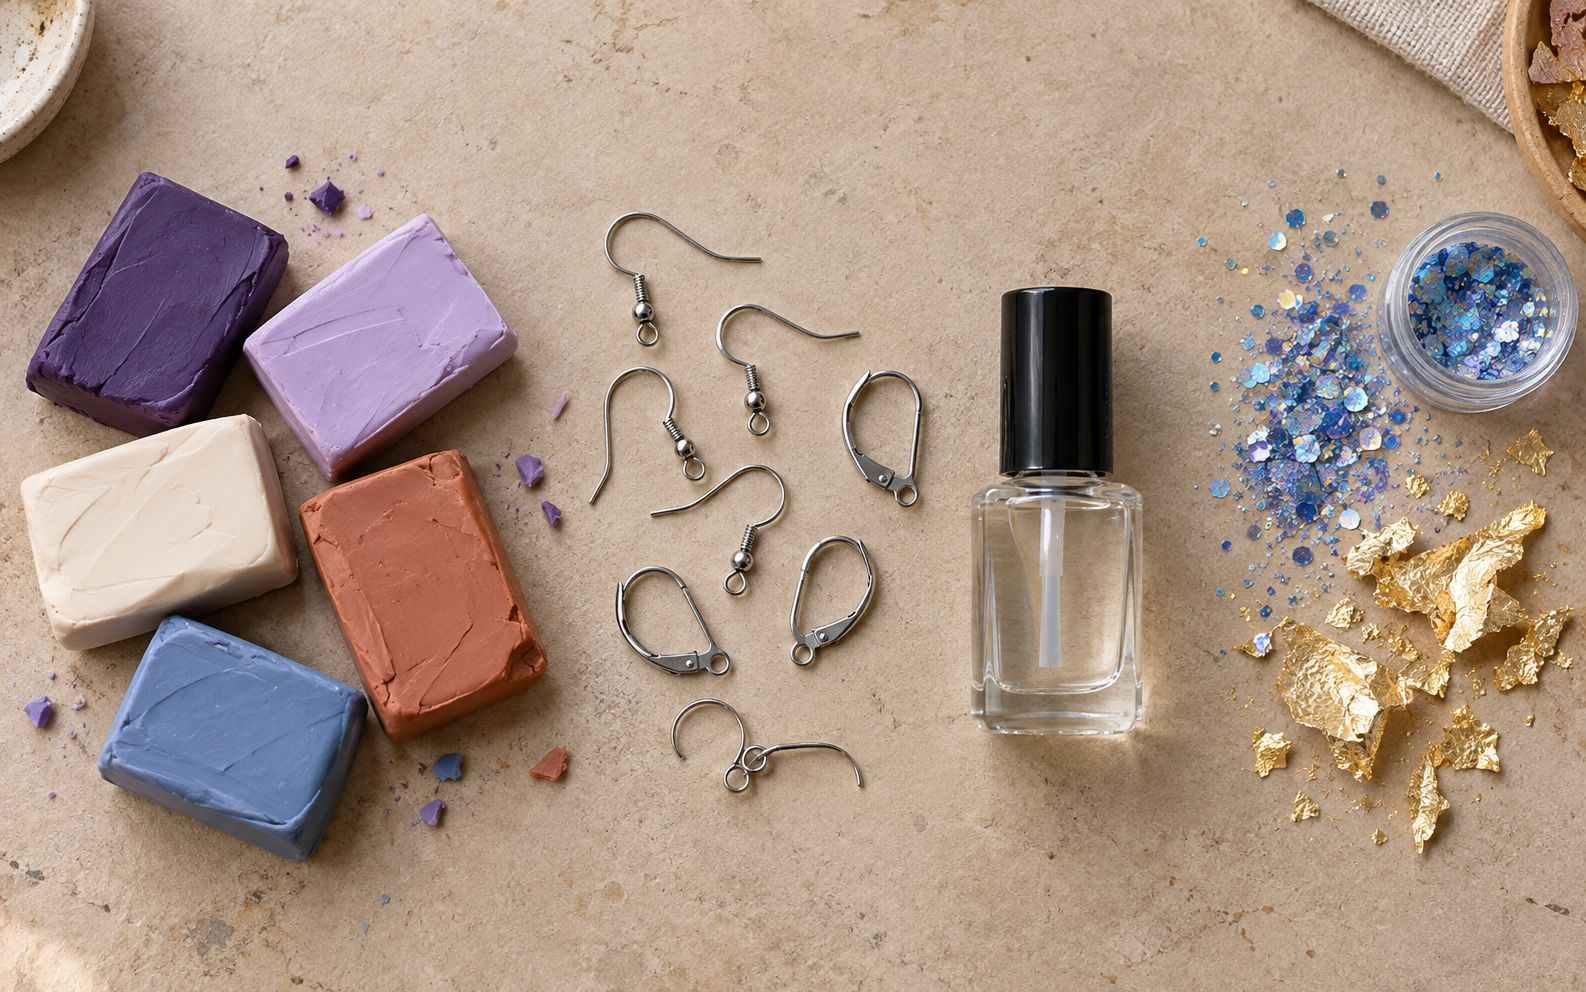
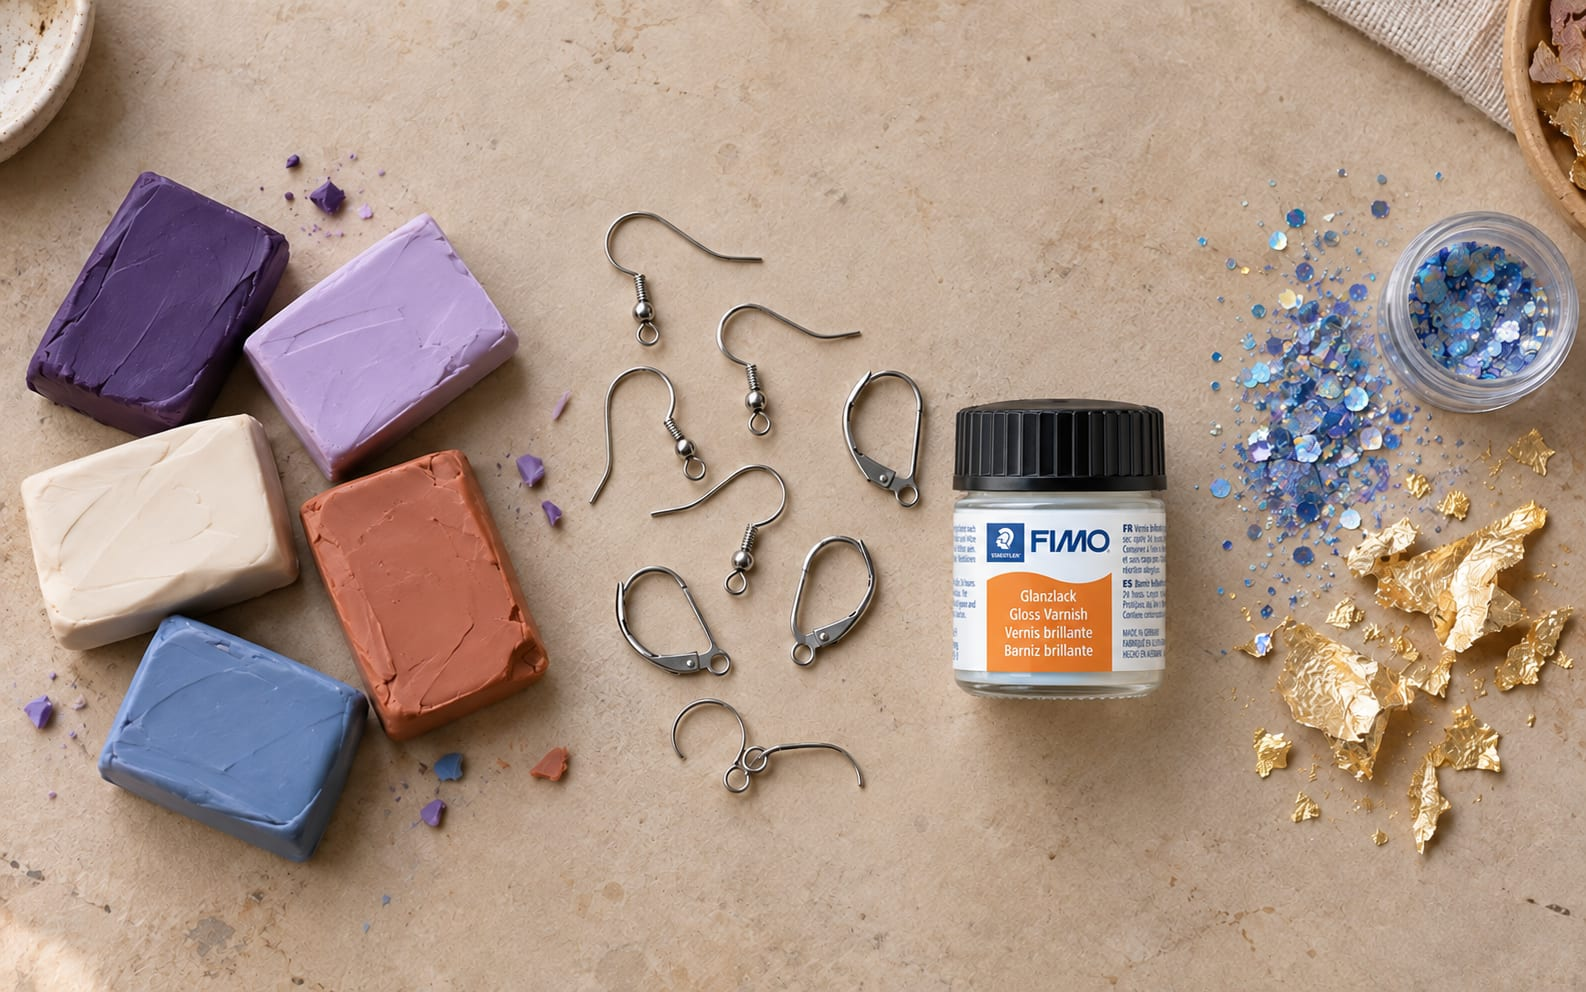
feat: nouvelle banniere d'accueil et nouvelle photo des matieres
Fournies par Christophe le 23 septembre 2026, converties par sharp sans
metadonnee. La banniere, 2,63:1 et porteuse de son propre texte, passe
en pleine largeur en tete de l'accueil, object-fit contain, avec un
texte alternatif qui reprend son texte. Le panneau des pages de
connexion, qui la recadrerait, prend la photographie de l'atelier.

diff --git a/src/app/(boutique)/page.module.css b/src/app/(boutique)/page.module.css
@@ -9,22 +9,21 @@
 
 .hero {
   display: grid;
-  /* Une colonne a 320 px, deux quand la place existe. */
   grid-template-columns: 1fr;
   align-items: center;
   background: var(--ls-background);
 }
 
-@media (min-width: 768px) {
-  .hero {
-    grid-template-columns: 1fr 1fr;
-  }
-}
+/*
+ * UNE SEULE COLONNE A TOUTES LES LARGEURS depuis le 23 septembre 2026 : la
+ * banniere, 2,63:1 et porteuse de son propre texte, est illisible dans une
+ * demi-colonne. Elle passe en tete sur toute la largeur, le texte dessous.
+ */
 
 .heroTexte {
   padding: var(--ls-space-7) var(--ls-space-4);
   max-width: var(--ls-content-max);
-  justify-self: end;
+  justify-self: center;
   width: 100%;
 }
 
@@ -121,7 +120,12 @@
 }
 
 .heroVisuel {
-  /* L'ordre visuel suit l'ordre du document : le texte d'abord a 320 px. */
+  /*
+   * EN TETE, par `order` et non par le DOM : le titre de la page reste le
+   * premier contenu lu par un lecteur d'ecran, la banniere n'etant que son
+   * illustration.
+   */
+  order: -1;
   width: 100%;
 }
 
@@ -135,12 +139,11 @@
   width: 100%;
   height: auto;
   /*
-   * 16/10, LE RATIO REEL DU FICHIER. Imposer 4/3 rognerait en haut et en bas
-   * avec `object-fit: cover`, et couperait le pendentif qui est le sujet.
-   * A revoir si LS-23 livre une photographie d'un autre format.
+   * 1680/639, LE RATIO REEL DE LA BANNIERE, et `contain` : le texte incruste
+   * ne doit jamais etre rogne. A revoir si l'image change de format.
    */
-  aspect-ratio: 16 / 10;
-  object-fit: cover;
+  aspect-ratio: 1680 / 639;
+  object-fit: contain;
 }
 
 /* ---------- Sections communes ---------- */

diff --git a/src/components/panneau-authentification.tsx b/src/components/panneau-authentification.tsx
@@ -48,13 +48,11 @@ import styles from "./panneau-authentification.module.css";
  * information que le formulaire ne porte pas, et l'annoncer retarderait l'acces
  * au premier champ.
  *
- * ATTENTION, `accueil-hero.jpg` EST UN VISUEL ENGENDRE, NON CONTRACTUEL. Il
- * montre des bijoux absents du catalogue. `public/habillage/README.md` porte
- * l'arbitrage du 19 aout 2026 : conserve pendant le developpement, REMPLACE
- * AVANT L'OUVERTURE par une photographie reelle de LS-23, faute de quoi il ferait
- * passer des pieces inexistantes pour des creations de la boutique. Le
- * remplacement ne demande aucune modification ici si le nom de fichier est
- * conserve.
+ * LA PHOTOGRAPHIE DE L'ATELIER, et non plus `accueil-hero.jpg`, depuis le
+ * 23 septembre 2026. L'accueil porte desormais une banniere a texte incruste,
+ * 2,63:1, qu'une colonne etroite recadrerait en coupant ce texte. L'atelier est
+ * une photographie reelle de `/notre-univers`, sans texte, et ses pieces sont
+ * au centre : le recadrage `cover` n'y perd rien d'essentiel.
  */
 export function PanneauAuthentification({
   children,
@@ -65,7 +63,7 @@ export function PanneauAuthentification({
     <div className={styles.gabarit}>
       <div className={styles.panneau} aria-hidden="true">
         <Image
-          src="/habillage/accueil-hero.jpg"
+          src="/habillage/univers-atelier.jpg"
           alt=""
           className={styles.image}
           width={1586}

diff --git a/src/app/(boutique)/page.tsx b/src/app/(boutique)/page.tsx
@@ -123,14 +123,23 @@ export default async function PageAccueil() {
          * en ligne.
          */}
         <div className={styles.heroVisuel}>
+          {/*
+           * BANNIERE FOURNIE PAR CHRISTOPHE LE 23 SEPTEMBRE 2026, au format
+           * natif 1680 x 639, soit 2,63:1. Elle porte son propre texte, nom de
+           * la boutique, slogan et trois arguments : la rogner la couperait,
+           * d'ou le ratio reel et une pleine largeur, `page.module.css`.
+           *
+           * LE TEXTE ALTERNATIF REPREND TOUT LE TEXTE DE L'IMAGE, qui n'est
+           * lisible autrement que par l'oeil.
+           */}
           <Image
             src="/habillage/accueil-hero.jpg"
-            alt="Un pendentif lune et soleil en laiton doré et des boucles d'oreilles à perles claires, posés sur un tissu de lin écru"
+            alt="Bannière Lune-soleil, un croissant de lune et un soleil dorés : « Bijoux faits main avec amour », « L'harmonie du Soleil et de la Lune, créée pour vous », fait main en France, matériaux sélectionnés, pièces uniques et authentiques"
             className={styles.image}
-            width={1586}
-            height={992}
+            width={1680}
+            height={639}
             priority
-            sizes="(min-width: 768px) 50vw, 100vw"
+            sizes="100vw"
           />
         </div>
       </section>

diff --git a/src/app/(boutique)/notre-univers/page.tsx b/src/app/(boutique)/notre-univers/page.tsx
@@ -55,8 +55,8 @@
  * LA DISTINCTION EST CELLE QUI SEPARE CETTE PAGE D'UNE PAGE DE VENTE : aucun
  * prix, aucun bouton panier, aucune reference. Le visiteur y voit un atelier au
  * travail, pas un catalogue. Une photographie de PRODUIT presentant une piece
- * inexistante serait une allegation trompeuse, LS-22, et c'est pour ce motif que
- * `accueil-hero.jpg` doit etre remplace avant l'ouverture.
+ * inexistante serait une allegation trompeuse, LS-22, motif pour lequel l'ancien
+ * visuel engendre de l'accueil a ete remplace le 23 septembre 2026.
  *
  * ELLES NE PASSENT PAS PAR LA CHAINE DE TRAITEMENT DES MEDIAS, ADR-007 : c'est
  * de l'habillage versionne, et le retrait des metadonnees n'y est donc PAS
@@ -397,7 +397,7 @@ export default async function PageNotreUnivers() {
 
           <Image
             src="/habillage/univers-matieres.jpg"
-            alt="Vue de dessus des matières : pains de pâte polymère violets, beiges et bleus, crochets et dormeuses en acier, flacon de vernis, paillettes bleues et feuilles d'or"
+            alt="Vue de dessus des matières : pains de pâte polymère violets, lilas, beiges, terracotta et bleus, crochets et dormeuses en acier, flacon de vernis brillant, paillettes bleues et feuilles d'or"
             className={styles.imageBande}
             width={1586}
             height={992}

diff --git a/src/components/panneau-authentification.module.css b/src/components/panneau-authentification.module.css
@@ -97,19 +97,12 @@
    */
   object-fit: cover;
   /*
-   * LE CADRAGE VISE LA DROITE DE L'IMAGE, ET CE N'EST PAS UN GOUT.
-   *
-   * `accueil-hero.jpg` est cadre pour l'accueil, ou il s'affiche en large : ses
-   * bijoux occupent la moitie DROITE et la moitie gauche est un aplat de lin
-   * uni, qui laisse respirer le titre pose par-dessus. Recadre au centre sur
-   * une colonne etroite, le panneau ne montrait que ce lin : mesure le
-   * 14 septembre 2026 sur le rendu local, il ressemblait a une image manquante.
-   *
-   * A REVOIR SI L'IMAGE CHANGE. Une photographie de LS-23 cadree autrement
-   * rendrait cette valeur fausse, et le defaut serait le meme : un aplat vide
-   * sans erreur ni avertissement.
+   * CADRAGE CENTRE : la photographie de l'atelier porte ses pieces au milieu.
+   * L'ancien visuel imposait 72 %, ses bijoux occupant la moitie droite ; A
+   * REVOIR SI L'IMAGE CHANGE, un aplat vide ne produisant ni erreur ni
+   * avertissement.
    */
-  object-position: 72% center;
+  object-position: center;
 }
 
 @media (min-width: 768px) {

diff --git a/README.md b/README.md
@@ -41,7 +41,7 @@ travail suit les dépendances réelles plutôt que l'ordre des numéros.
 | 5, rétractation et conformité | LS-6 | 0 | **close**, ses huit stories terminées le 10 septembre 2026 |
 | 6, exploitation et ouverture | LS-7 | 10 | **La recette de l'exploitante du 23 septembre 2026** a produit LS-238 à LS-248, tous clos le jour même, **LS-239** sans correction faute de reproduction : panier borné au stock, ajout depuis la carte, catalogue paginé, sélection multiple de produits et de messages, messages **archivés et jamais effacés** (migration additive `message.archive_a`), photo agrandie, menu d'administration en cinq groupes. **Rien ne se supprime en base de production**, arbitrage de Christophe, LS-246. **LS-153 et LS-142 attendent l'exploitante**. LS-140 et LS-107 attendent les photographies de LS-23. Reste LS-150, la visibilité dans les moteurs de réponse. **LS-228** a livré son gabarit de titre le 13 septembre 2026, sept titres sur quatorze rendaient en police système ; son second volet, les blocs d'état des deux vues d'ensemble, attend LS-153 faute de données sur les comptes de production. **LS-229** a livré le pendant public le 14 septembre 2026 : aucun titre des pages publiques ni des écrans de connexion n'employait le jeton, C42 ne couvrant que les écrans privés. La règle vit désormais dans `globals.css`, hors d'atteinte des sorties anticipées de layout, **C43** l'énonce, et les trois portes d'entrée reçoivent le gabarit à deux panneaux du prototype. **LS-230 est close** le 14 septembre 2026 : les 44 preuves par mutation tournent désormais, 37 par PR et 7 au nocturne. Six étaient cassées et cachaient cinq trous réels, et cinq mutations traînaient dans le dépôt, dont la garde d'accès à l'administration. **LS-231 est close sans correction** le 16 septembre 2026 : un échec sur six exécutions sur `tableau-bord`, jamais observé en CI, défaut connu et accepté. **LS-232 est close** le 17 septembre 2026 : le nocturne du 17 a rendu l'étape de bout en bout verte, 2155 tests passés contre douze échecs le 15, sans qu'aucun test disparaisse ni soit ignoré. **LS-233 a reçu un second correctif** le 17 septembre, son premier ayant régressé : le filtre ancré sur `× ` et `✘ ` ne retenait plus rien sous les reporters de CI, Playwright passant à `github` et Vitest encodant la virgule en `%2C`. Le filtre lit désormais les quatre formes mesurées dans les deux modes. Le même diagnostic a montré que le step groupant six preuves sous `bash -e` en masquait quatre depuis le 14 septembre. **LS-234 est close** le 16 septembre, `robots.txt` déduit son état du catalogue. **LS-223, LS-226 et LS-227 sont closes** le 13 septembre 2026 : la clé Backblaze durcie, l'instabilité des tests et le cul-de-sac de la réauthentification. **LS-235 est en cours** le 22 septembre 2026 : le nocturne annulé trois nuits sans alerte, borne locale posée et prouvée, plafond porté à 75 min, `npm audit` remonté hors d'atteinte, et l'alerte déplacée dans `veilleur-nocturne.yml`, **une étape interne ne pouvant pas signaler le dépassement du plafond de son propre job**. Le nocturne du 21 a été le premier à tourner avec la borne : **elle a coupé, et c'est sa réussite**, l'étape s'est nommée. Ce qu'elle a montré a déplacé le diagnostic, **le coût était la cause et non le plafond** : chacun des 147 cas d'intégration relançait la suite entière, 419 s pour 947 tests, soit 17 h 06. Le script cible désormais le fichier qui porte la garantie, 2377 s mesurées, et **cinq défauts préexistants** sont tombés au premier passage allant au-delà du cas 1. Le septième critère attend un nocturne complet au vert : le budget est prouvé, pas le passage. **LS-237** en est sorti, un faux négatif intermittent du cas 12 |
 | 7, V1 cible | LS-8 | 0 | **close** le 11 septembre 2026. LS-149 portait le dernier critère : ADR-044 **écarte l'assistant IA** du périmètre plutôt que de le reporter |
-| Contenus | LS-22 | 9 | **attend l'exploitante**, rien n'est faisable sans elle. **LS-32 est close** le 11 septembre 2026, la neutralité de genre étant désormais gardée par un contrôle. **LS-25 a livré ses textes** le 20 septembre 2026, récoltés auprès d'elle et validés par elle : `/notre-univers` est déployée, et elle a révélé que l'exploitante **exerce seule** quand tout le cadrage parlait de deux créatrices. Le ticket reste ouvert sur le visuel de hero de l'accueil, qui montre des pièces n'ayant jamais existé |
+| Contenus | LS-22 | 9 | **attend l'exploitante**, rien n'est faisable sans elle. **LS-32 est close** le 11 septembre 2026, la neutralité de genre étant désormais gardée par un contrôle. **LS-25 a livré ses textes** le 20 septembre 2026, récoltés auprès d'elle et validés par elle : `/notre-univers` est déployée, et elle a révélé que l'exploitante **exerce seule** quand tout le cadrage parlait de deux créatrices. Le visuel d'accueil, qui montrait des pièces n'ayant jamais existé, est **remplacé le 23 septembre 2026** par une bannière fournie par Christophe |
 
 **212 tickets terminés sur 238 hors epics**, les deux termes relevés dans Jira
 le **23 septembre 2026** en fin de journée, et jamais dérivés l'un de l'autre :

diff --git a/public/habillage/README.md b/public/habillage/README.md
@@ -15,22 +15,23 @@ ADR-007, sont televersees par l'administration et passent par la chaine de
 traitement qui retire les metadonnees EXIF. Mettre une photo de bijou vendable
 ici la sortirait de ce circuit, et notamment du retrait de la geolocalisation.
 
-## accueil-hero.jpg, a remplacer avant l'ouverture
+## accueil-hero.jpg, bannière de l'accueil
 
-**Visuel d'habillage engendre, non contractuel.** Il montre des bijoux qui ne
-sont PAS au catalogue.
+**Remplacé le 23 septembre 2026** par une bannière fournie par Christophe,
+1680 x 639, soit 2,63:1. Elle remplace le visuel engendré du 19 août, qui
+montrait des bijoux jamais existés.
 
-Le garder a la mise en ligne ferait passer des pieces inexistantes pour des
-creations de la boutique : LS-22 l'interdit, et ce serait une allegation
-commerciale trompeuse au meme titre qu'un faux avis.
+**ELLE PORTE SON PROPRE TEXTE** : nom de la boutique, slogan et trois
+arguments. D'où deux conséquences dans le code : pleine largeur et
+`object-fit: contain` pour ne jamais le rogner, et un texte alternatif qui
+reprend tout ce texte. Un texte dans une image n'est lisible ni par un lecteur
+d'écran ni zoomé, critère WCAG 1.4.5 : une version sans texte incrusté serait
+préférable.
 
-Arbitrage de Christophe du 19 aout 2026 : conserve pendant le developpement,
-**remplace avant l'ouverture** par une photographie reelle de LS-23. Le
-remplacement ne demande aucune modification de code si le nom de fichier et le
-ratio 16/10 sont conserves ; sinon, ajuster `aspect-ratio` et les dimensions
-declarees dans `src/app/(boutique)/page.tsx`.
+**La graphie de l'image est « Lune-Soleil »**, celle du site `Lune-soleil`,
+`NOM_BOUTIQUE` : écart signalé à Christophe, non corrigeable dans le code.
 
-Aucune metadonnee EXIF, ICC ni XMP dans le fichier actuel, verifie.
+Métadonnées EXIF, ICC et XMP retirées à la conversion par `sharp`, vérifié.
 
 ## Les six visuels de `/notre-univers`, LS-25
 
@@ -41,7 +42,7 @@ l'exploitante.
 |---|---|---|
 | `univers-modelage.jpg` | 16/10 | en-tete de « Mon histoire », seul a porter `priority` |
 | `univers-atelier.jpg` | 16/10 | apres le paragraphe sur l'atelier d'Artix |
-| `univers-matieres.jpg` | 16/10 | ouverture de « Les matieres » |
+| `univers-matieres.jpg` | 16/10 | ouverture de « Les matieres », **remplacée le 23 septembre 2026** : vernis changé, métadonnées retirées |
 | `univers-porte.jpg` | 1:1 | « Des pieces uniques », donne l'echelle |
 | `univers-emballage.jpg` | 1:1 | « Ce a quoi je tiens », le soin du colis |
 | `univers-nettoyage.jpg` | 1:1 | « L'entretien », a droite de l'encadre des interdits |
